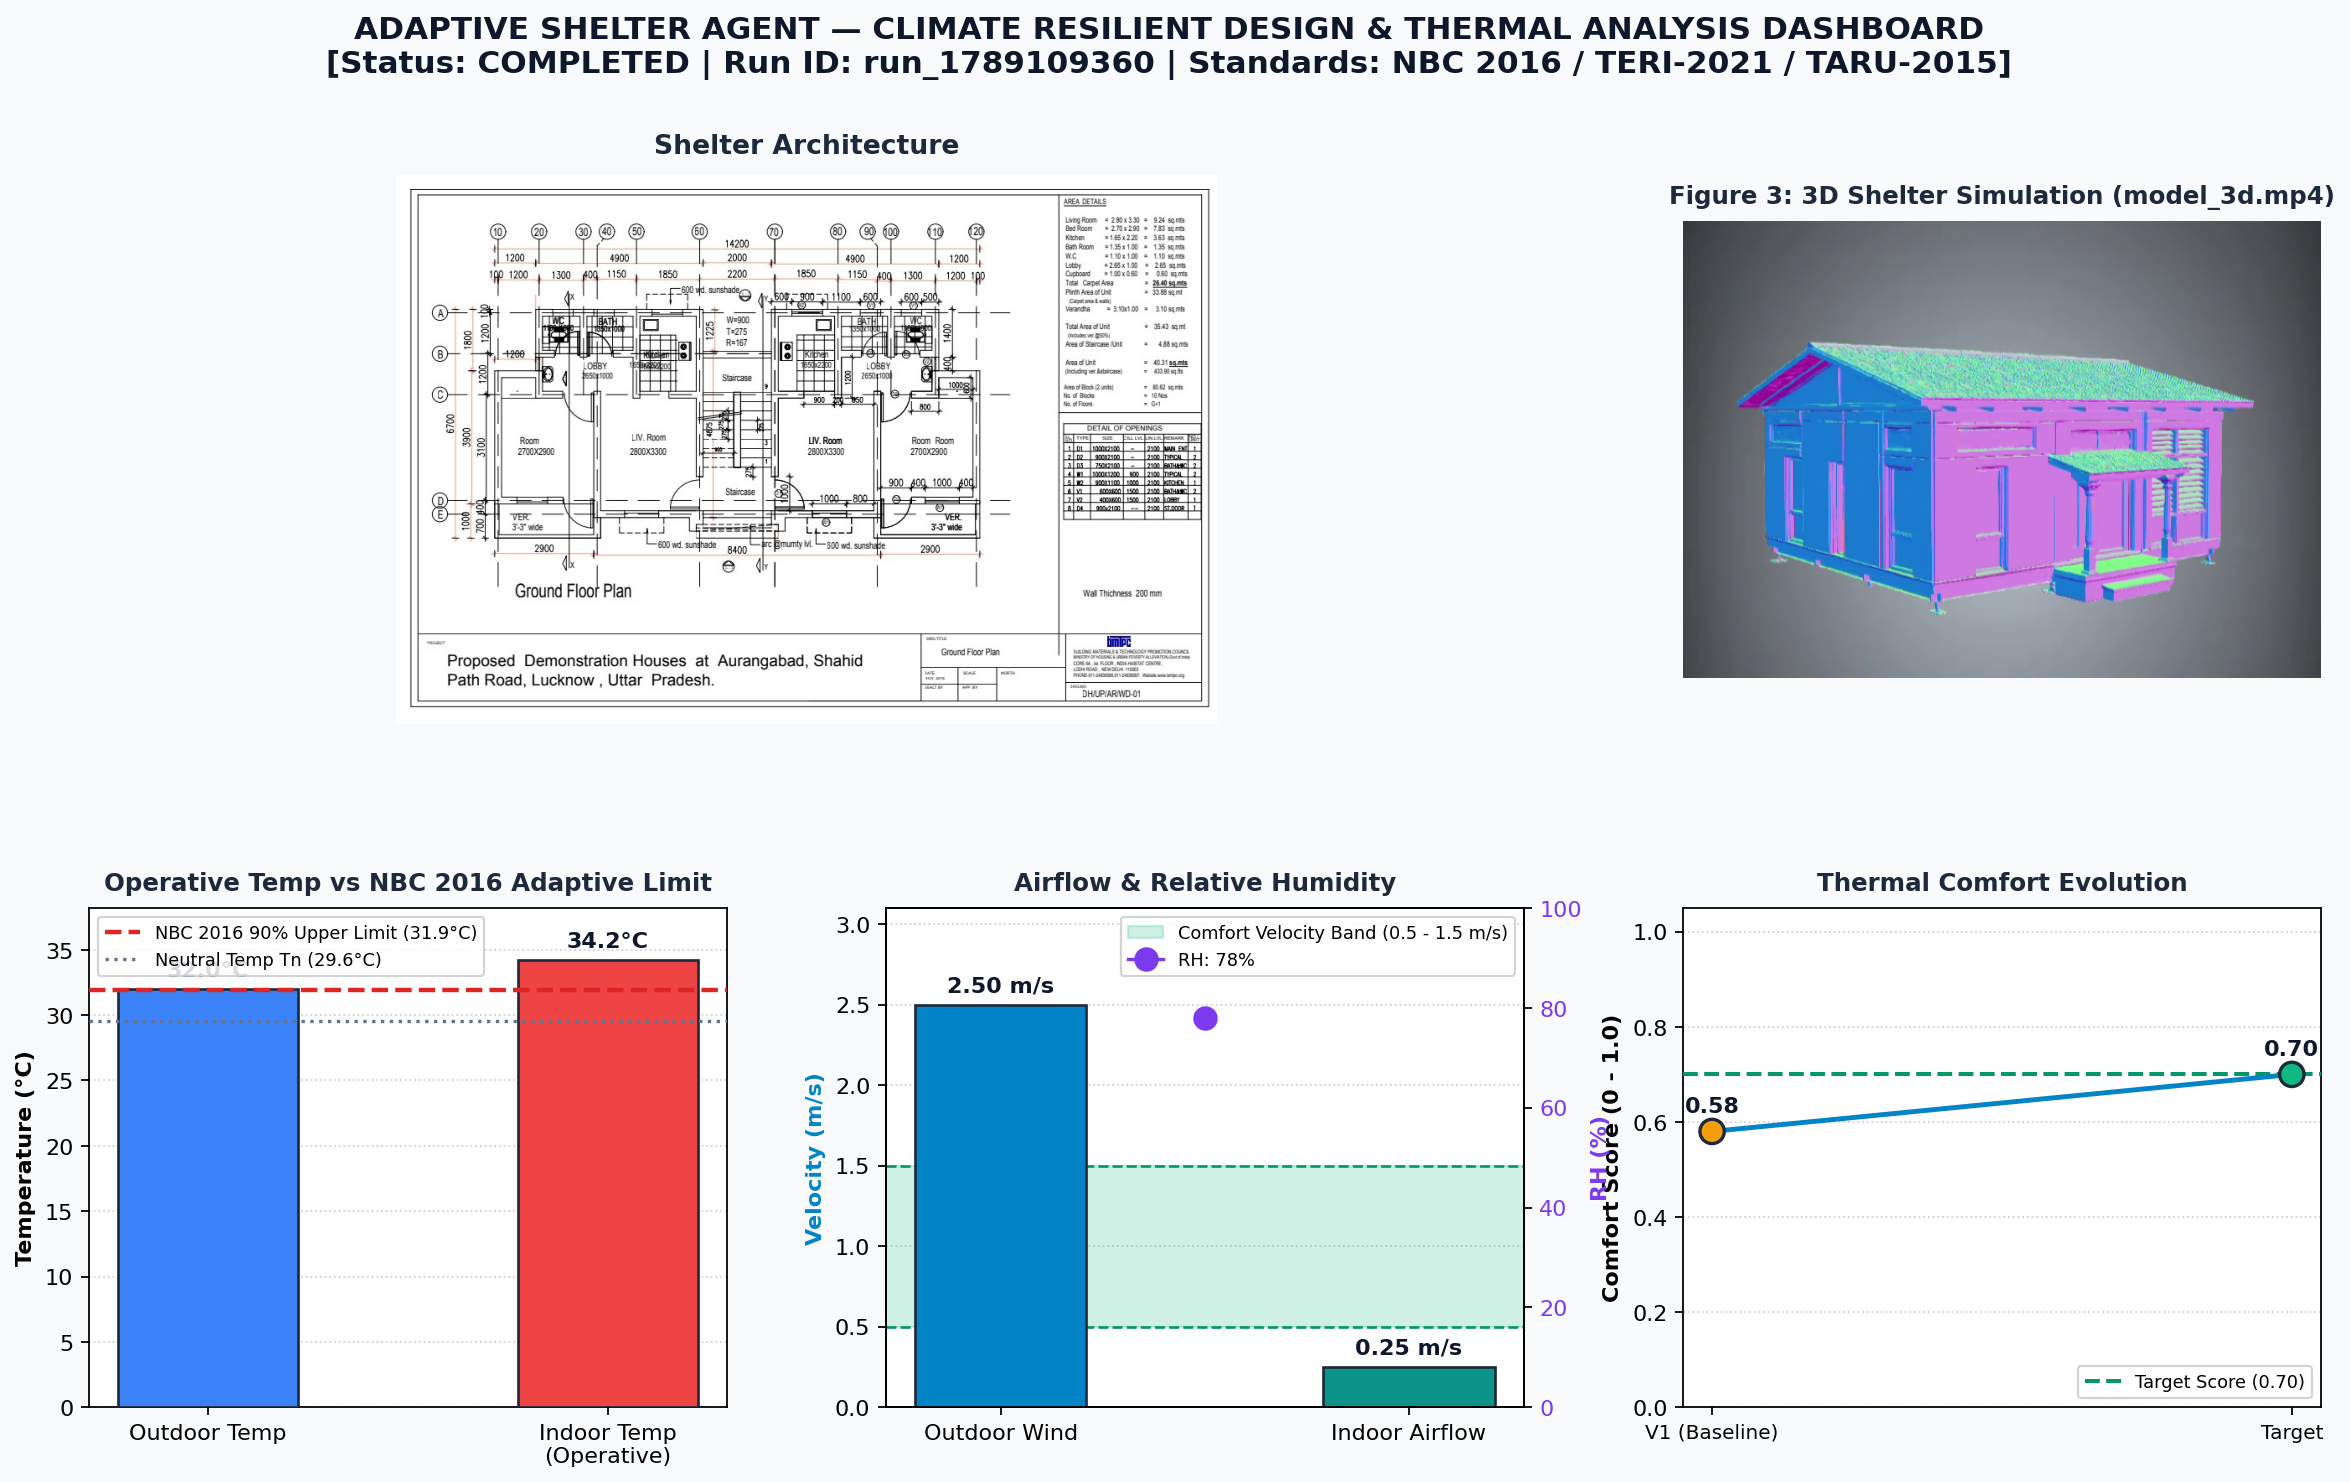
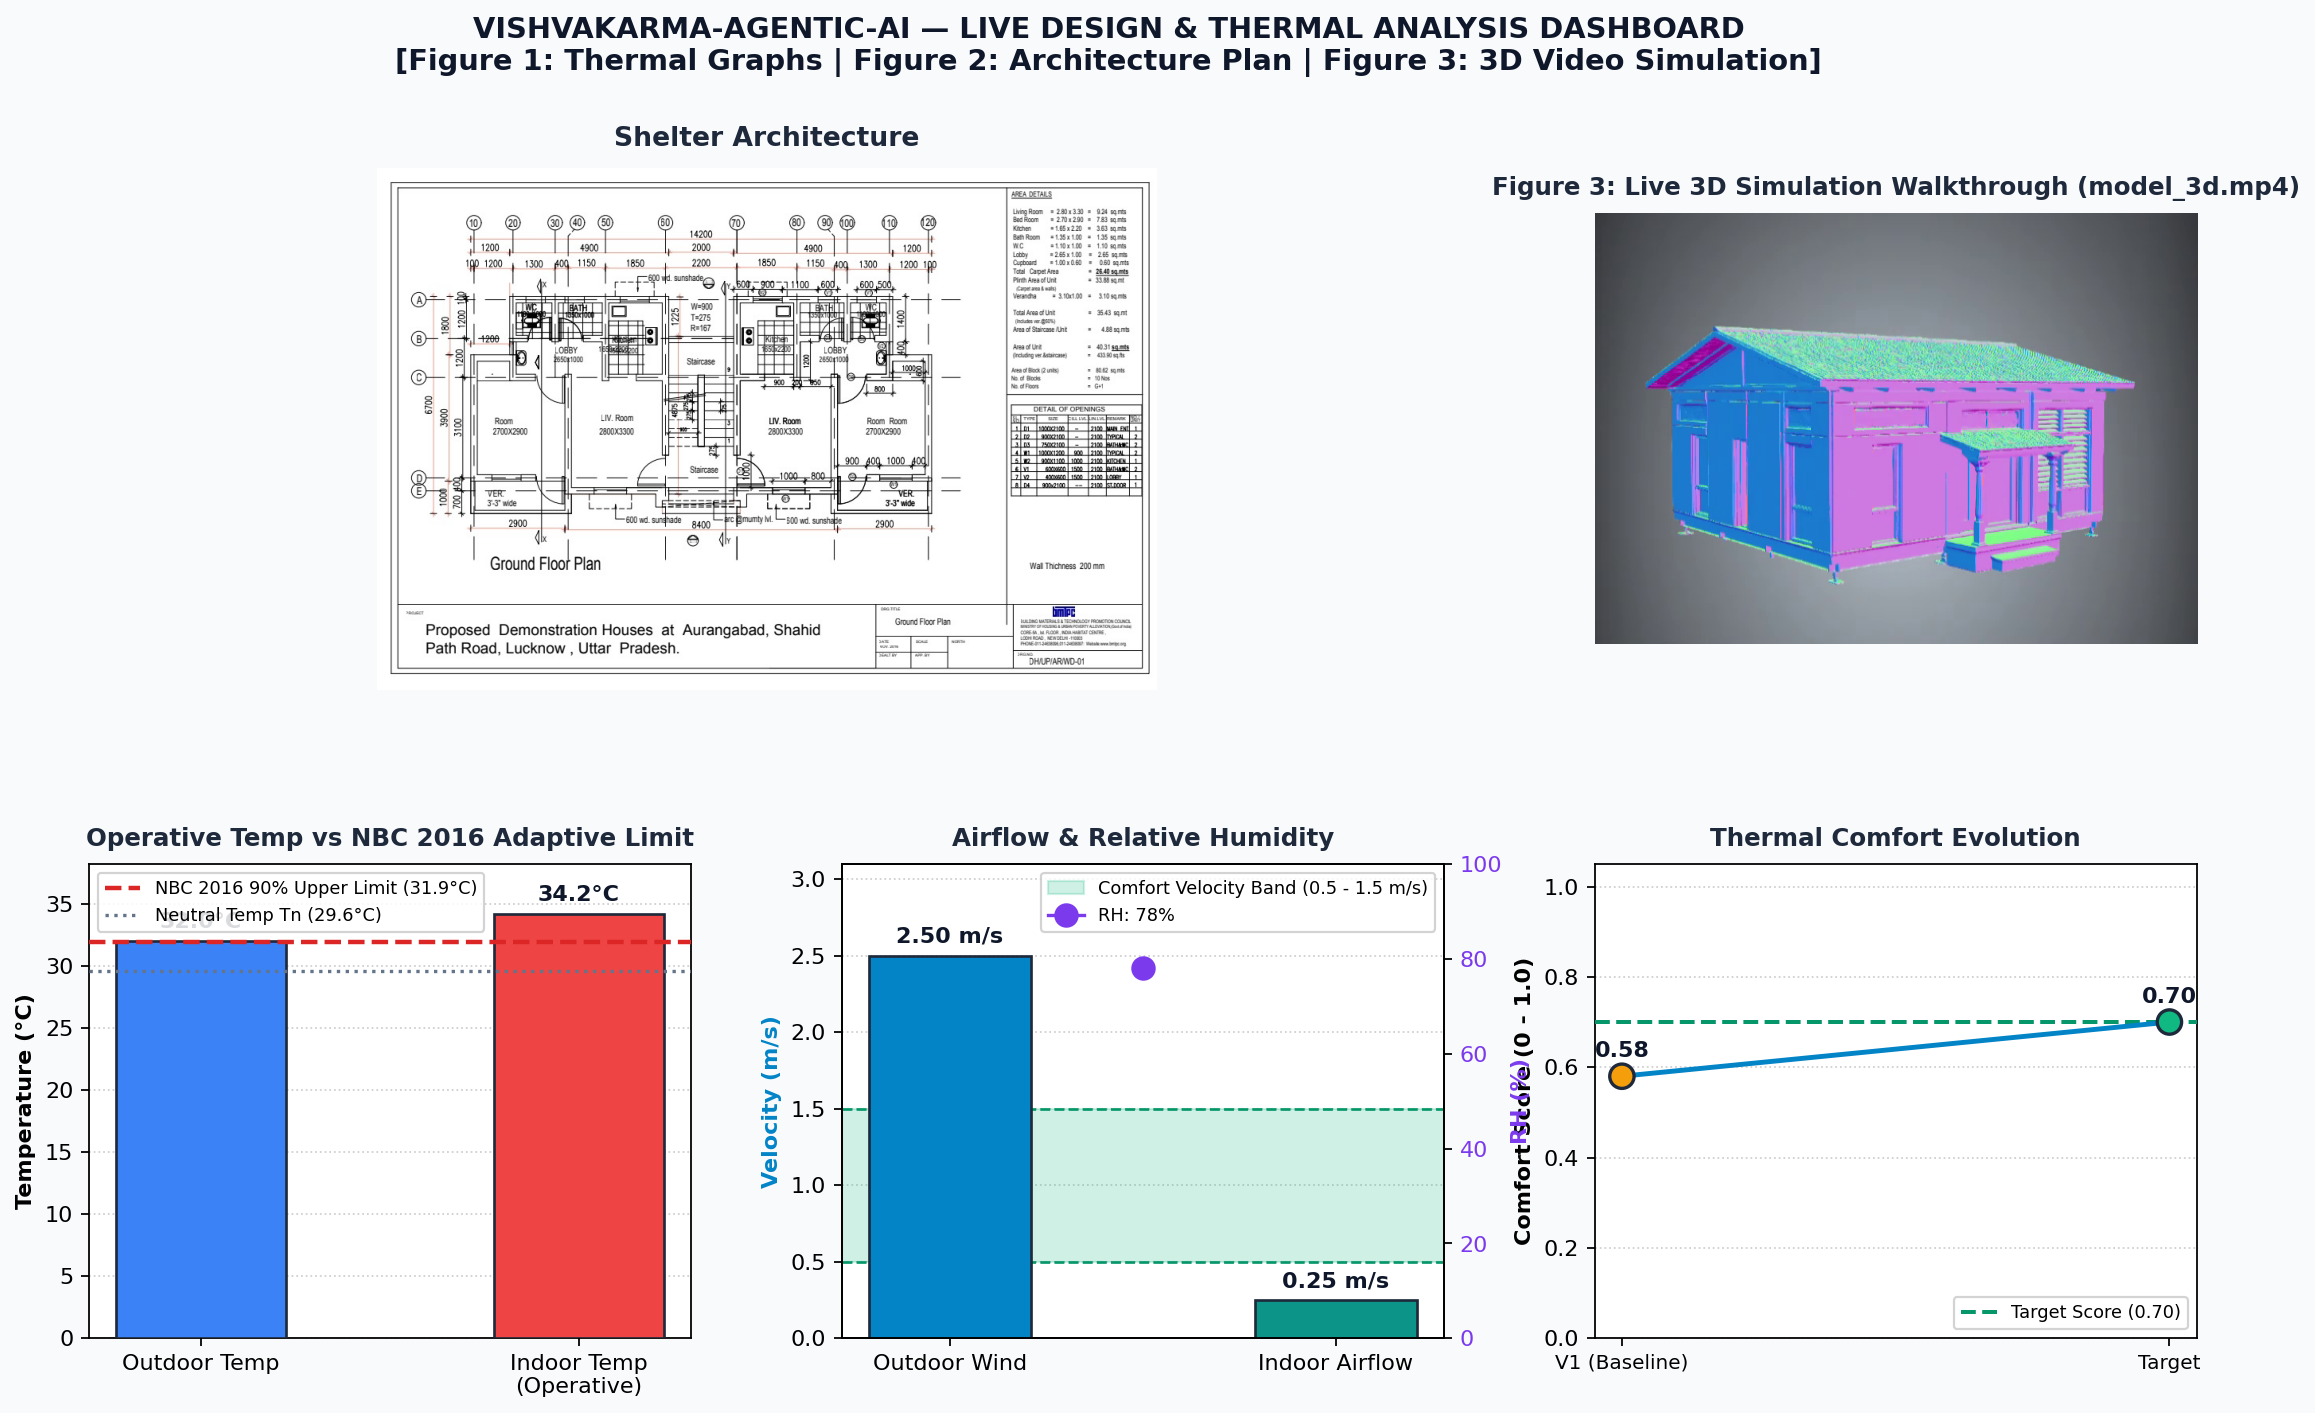
Auto-trigger 3-panel Matplotlib visualization by default

diff --git a/app/main.py b/app/main.py
@@ -669,7 +669,7 @@ def index_page():
     """
 
 
-def save_state_and_dashboard(state, open_gui: bool = False):
+def save_state_and_dashboard(state, open_gui: bool = True):
     """Save dashboard image and cached state JSON, optionally popping up GUI window."""
     import json
     from pathlib import Path
@@ -688,7 +688,7 @@ def save_state_and_dashboard(state, open_gui: bool = False):
     return dash_path
 
 
-def interactive_cli(max_iterations: int = 10, auto_gui: bool = False):
+def interactive_cli(max_iterations: int = 10, auto_gui: bool = True):
     """Interactive Command-Line Terminal Interface for continuous conversation."""
     from app.visualization.dashboard import launch_dashboard_gui_process
     print("=" * 70)
@@ -712,9 +712,12 @@ def interactive_cli(max_iterations: int = 10, auto_gui: bool = False):
                 continue
 
             state = agent.run(user_query=user_input, max_iterations=max_iterations)
+            should_open_gui = auto_gui and getattr(state, "intent", "") != "greeting"
             try:
-                dash_path = save_state_and_dashboard(state, open_gui=auto_gui)
+                dash_path = save_state_and_dashboard(state, open_gui=should_open_gui)
                 print(f"[DASHBOARD] 3-Panel Matplotlib visualization saved to: {dash_path}")
+                if should_open_gui:
+                    print("[GUI] Auto-launched live 3-Panel interactive Matplotlib visualization window.")
             except Exception as vis_err:
                 pass
 
@@ -744,13 +747,16 @@ def cli_main():
     parser = argparse.ArgumentParser(description="Vishvakarma-Agentic-AI CLI & Server")
     parser.add_argument("--cli", type=str, help="Run agent directly with a single query")
     parser.add_argument("-i", "--interactive", action="store_true", help="Start interactive terminal REPL")
-    parser.add_argument("--gui", action="store_true", help="Launch interactive Matplotlib visual app window alongside output")
+    parser.add_argument("--gui", action="store_true", help="Explicitly enable live Matplotlib visual app window (default: enabled)")
+    parser.add_argument("--no-gui", action="store_true", help="Disable automatic live Matplotlib visual app window popup")
     parser.add_argument("--view", action="store_true", help="Open live Matplotlib dashboard app viewer for latest analysis")
     parser.add_argument("--server", action="store_true", help="Start FastAPI Web Server")
     parser.add_argument("--iterations", type=int, default=10, help="Max iterations")
     parser.add_argument("--host", type=str, default="127.0.0.1", help="API host")
     parser.add_argument("--port", type=int, default=8000, help="API port")
     args = parser.parse_args()
+
+    auto_gui = not args.no_gui
 
     if args.view:
         from app.visualization.dashboard import launch_dashboard_gui_process
@@ -759,11 +765,12 @@ def cli_main():
     elif args.cli:
         print("\nStarting Vishvakarma-Agentic-AI CLI...")
         state = agent.run(user_query=args.cli, max_iterations=args.iterations)
+        should_open_gui = auto_gui and getattr(state, "intent", "") != "greeting"
         try:
-            dash_path = save_state_and_dashboard(state, open_gui=args.gui)
+            dash_path = save_state_and_dashboard(state, open_gui=should_open_gui)
             print(f"\n[DASHBOARD] 3-Panel Matplotlib visualization saved to: {dash_path}")
-            if args.gui:
-                print("[GUI] Launched live 3-Panel interactive Matplotlib application.")
+            if should_open_gui:
+                print("[GUI] Auto-launched live 3-Panel interactive Matplotlib application.")
         except Exception as vis_err:
             print(f"\n[DASHBOARD] Notice: {vis_err}")
         print("\n" + "=" * 70)
@@ -779,7 +786,7 @@ def cli_main():
         uvicorn.run(app, host=args.host, port=args.port)
     else:
         # Default to interactive CLI mode when run without arguments
-        interactive_cli(max_iterations=args.iterations, auto_gui=args.gui)
+        interactive_cli(max_iterations=args.iterations, auto_gui=auto_gui)
 
 
 if __name__ == "__main__":

diff --git a/app/visualization/dashboard.py b/app/visualization/dashboard.py
@@ -163,7 +163,7 @@ def launch_dashboard_gui_process(save_path: Optional[str] = "data/analysis_dashb
         "from app.visualization.dashboard import show_interactive_dashboard\n"
         "state = {'user_query': 'Live Analysis', 'status': 'Completed', 'run_id': 'Live-Viewer'}\n"
         "try:\n"
-        "    with open('data/last_state.json', 'r') as f:\n"
+        "    with open('data/last_state.json', 'r', encoding='utf-8') as f:\n"
         "        state = json.load(f)\n"
         "except Exception:\n"
         "    pass\n"
